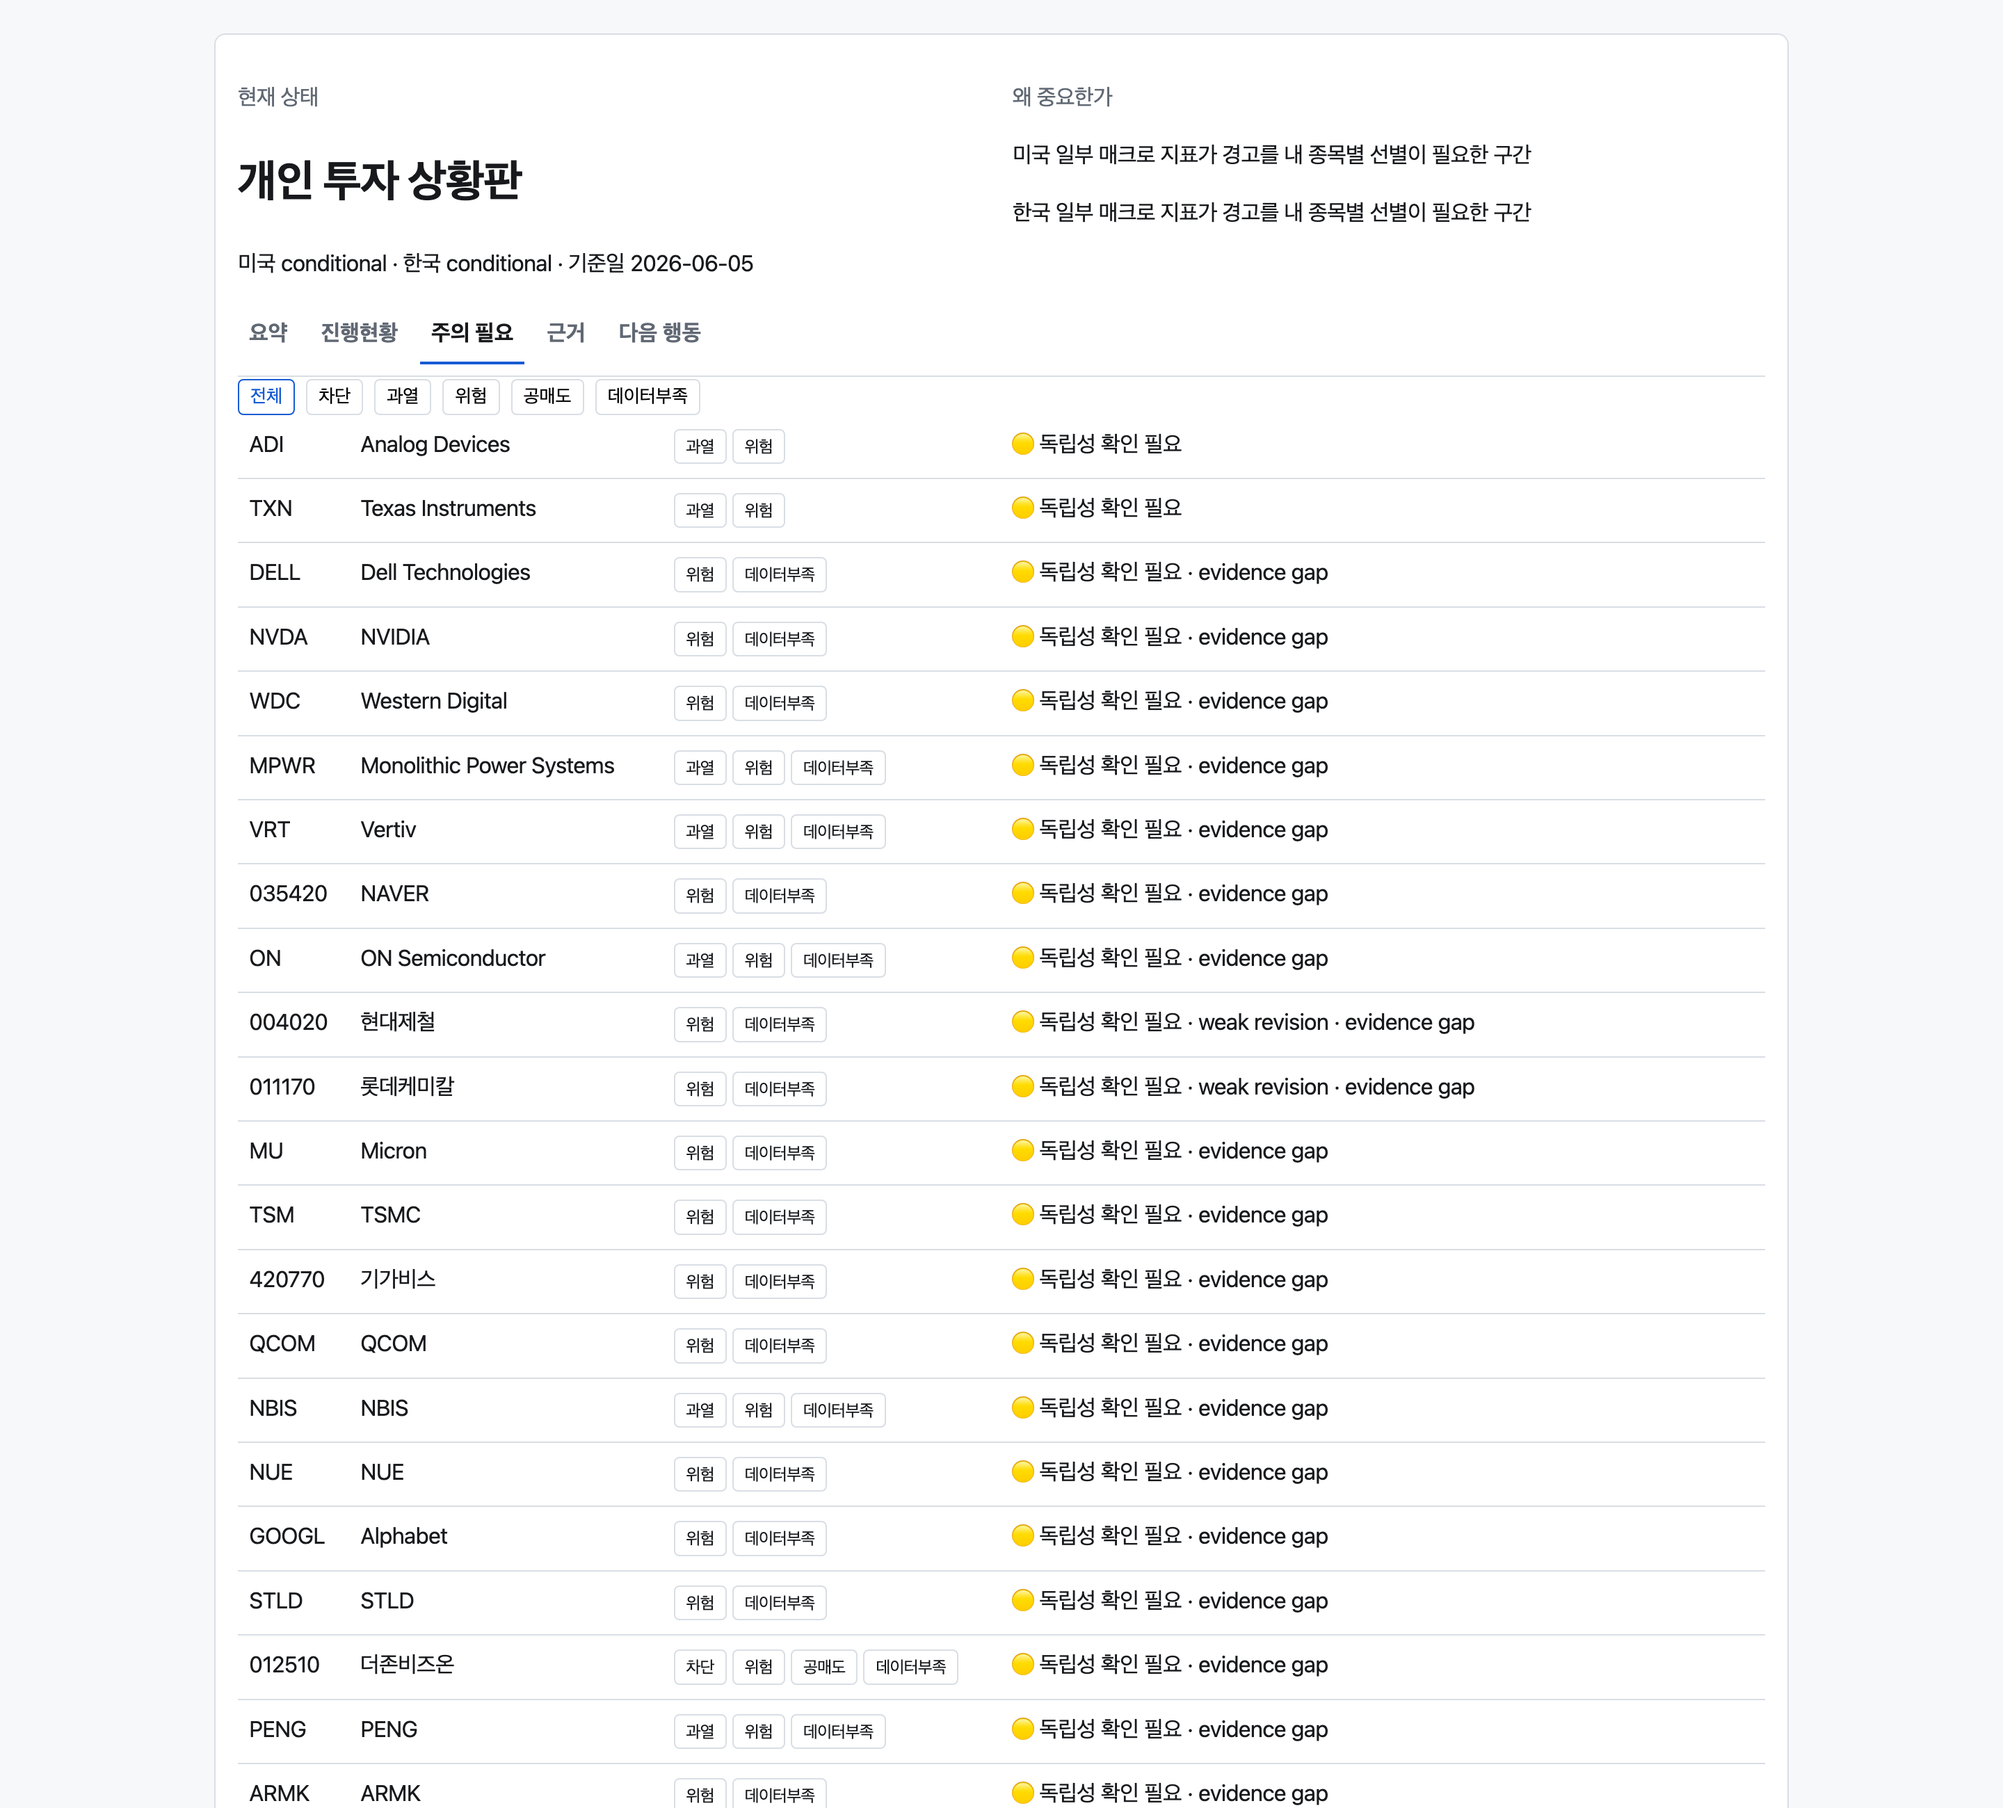
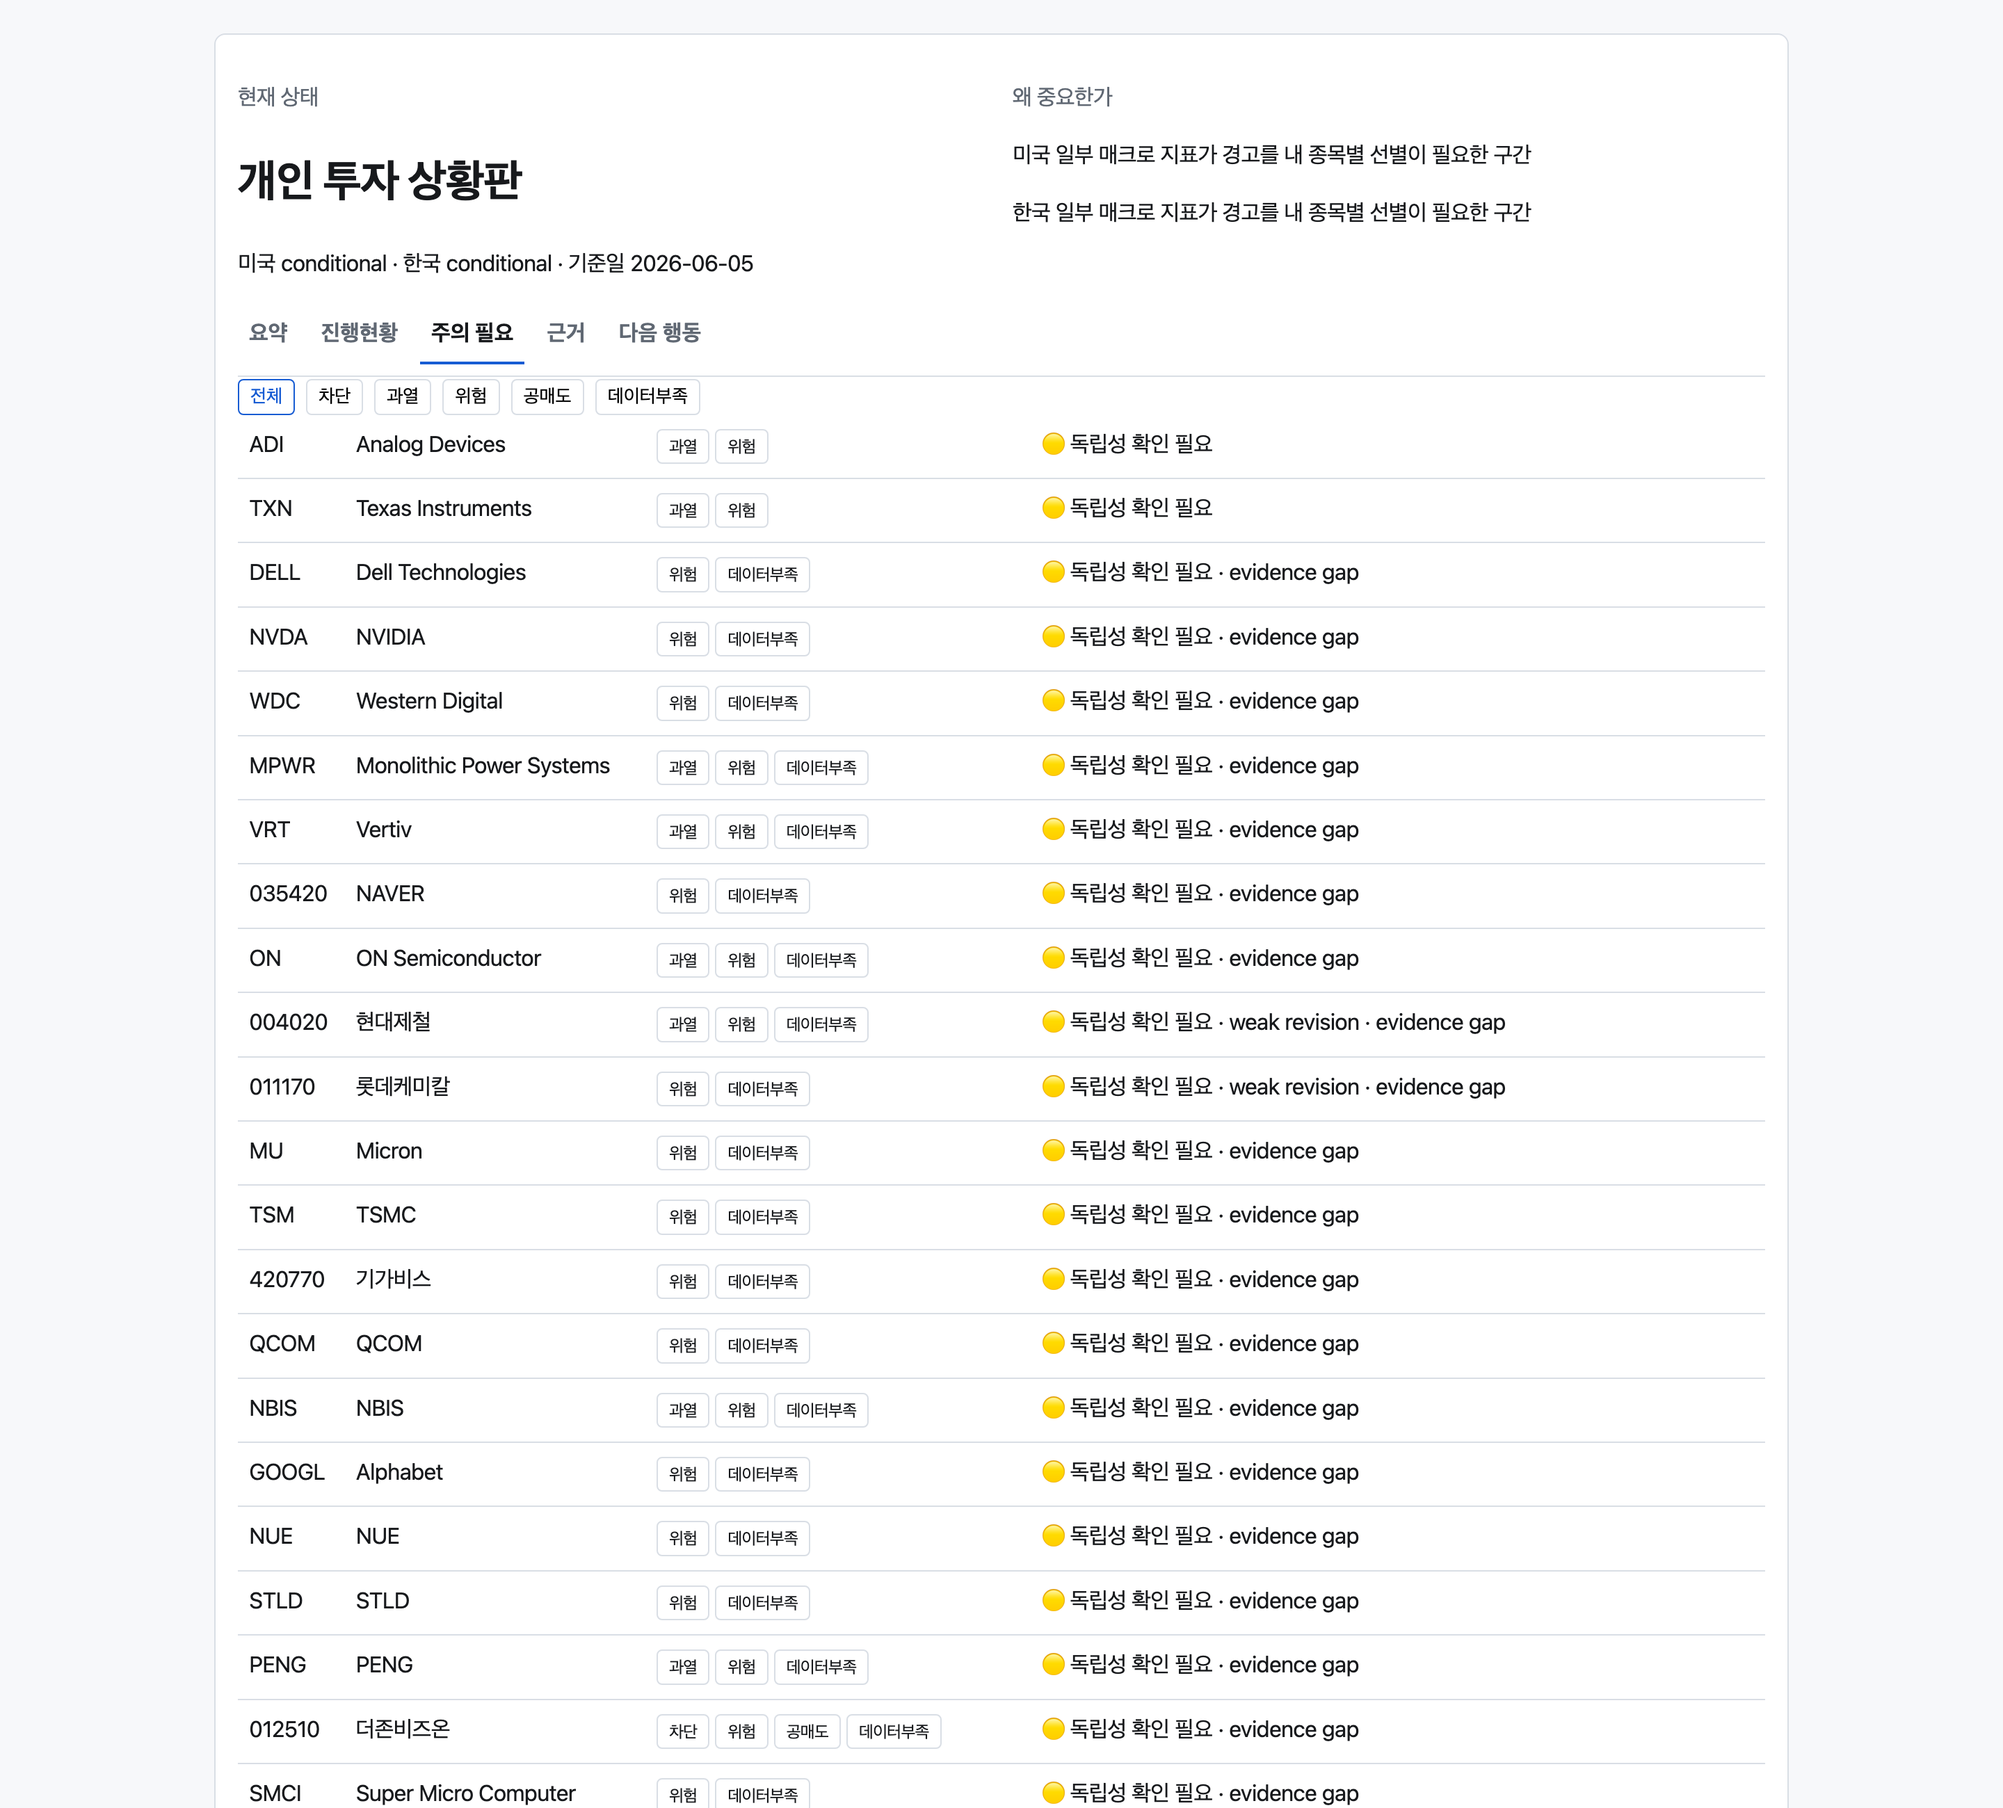
fix(cockpit): 진행현황 상태 라벨 정상/차단 + fresh snapshot 반영
- CandidateTable·snapshotExport 비차단 라벨 'BLOCKED 확인'→'정상', 차단→'차단'
- snapshotExport 정렬에 차단 강등 + independence_status 기준 일치(React isBlocked와 동일)
- snapshot.ts axis_changes 스키마를 canonical 객체({dimension,from,to})로 확장(레거시 문자열 호환) — fresh 데이터 전이 파싱
- 5탭 스크린샷 + 히어로 fresh 데이터(174종목, valuation_expectations 174 채움)로 재촬영

diff --git a/web/src/export/snapshotExport.ts b/web/src/export/snapshotExport.ts
@@ -114,11 +114,19 @@ function summaryPanel(snapshot: DashboardSnapshot) {
 }
 
 function progressPanel(snapshot: DashboardSnapshot) {
+  // React CandidateTable의 isBlocked와 동일 기준(status 또는 independence_status에 BLOCK) — 라벨·정렬 일치.
+  const isBlocked = (c: DashboardSnapshot["candidates"][number]) =>
+    c.status.toUpperCase().includes("BLOCK") || (c.independence_status ?? "").toUpperCase().includes("BLOCK");
   const rows = snapshot.candidates
     .slice()
-    .sort((a, b) => (b.score ?? -1) - (a.score ?? -1))
+    .sort((a, b) => {
+      const ab = isBlocked(a) ? 1 : 0;
+      const bb = isBlocked(b) ? 1 : 0;
+      if (ab !== bb) return ab - bb; // 차단 종목은 맨 뒤로 강등
+      return (b.score ?? -1) - (a.score ?? -1);
+    })
     .slice(0, 50)
-    .map((candidate) => `<tr data-toggle="#detail-${escapeHtml(candidate.ticker)}"><td>${escapeHtml(candidate.ticker)}<br><span class="muted">${escapeHtml(candidate.company)}</span></td><td>${escapeHtml(candidate.score ?? "-")}</td><td>${escapeHtml(candidate.pe ?? "-")}</td><td>${escapeHtml(candidate.strongest_lens || candidate.linked_lenses[0]?.name || "-")}</td><td>${candidate.status.toUpperCase().includes("BLOCK") ? "BLOCKED" : "BLOCKED 확인"}</td></tr><tr id="detail-${escapeHtml(candidate.ticker)}" class="detail-row" hidden><td colspan="5">${escapeHtml(candidate.thesis)}</td></tr>`)
+    .map((candidate) => `<tr data-toggle="#detail-${escapeHtml(candidate.ticker)}"><td>${escapeHtml(candidate.ticker)}<br><span class="muted">${escapeHtml(candidate.company)}</span></td><td>${escapeHtml(candidate.score ?? "-")}</td><td>${escapeHtml(candidate.pe ?? "-")}</td><td>${escapeHtml(candidate.strongest_lens || candidate.linked_lenses[0]?.name || "-")}</td><td>${isBlocked(candidate) ? "차단" : "정상"}</td></tr><tr id="detail-${escapeHtml(candidate.ticker)}" class="detail-row" hidden><td colspan="5">${escapeHtml(candidate.thesis)}</td></tr>`)
     .join("");
   return `<table><thead><tr><th>종목</th><th>매력도</th><th>PER</th><th>렌즈</th><th>상태</th></tr></thead><tbody>${rows}</tbody></table>`;
 }

diff --git a/web/src/data/snapshot.ts b/web/src/data/snapshot.ts
@@ -29,7 +29,16 @@ export const transitionSchema = z.object({
   from_regime: z.string().optional(),
   streak: z.number().int().nullable().optional(),
   whipsaw: z.boolean().default(false),
-  axis_changes: z.array(z.string()).default([]),
+  // canonical: Python detect_transition이 축별 {dimension, from, to} 객체로 생성.
+  // 레거시 문자열 배열도 허용(구 스냅샷/픽스처 호환).
+  axis_changes: z
+    .array(
+      z.union([
+        z.string(),
+        z.object({ dimension: z.string(), from: z.string(), to: z.string() }),
+      ]),
+    )
+    .default([]),
 });
 
 export const dualRegimeSchema = z.object({

diff --git a/web/src/components/CandidateTable.tsx b/web/src/components/CandidateTable.tsx
@@ -65,7 +65,7 @@ export function CandidateTable({ candidates }: CandidateTableProps) {
         header: "상태",
         accessorFn: (row) => (isBlocked(row) ? 1 : 0),  // 0=비차단 먼저, 1=차단 맨뒤
         cell: ({ row }) =>
-          isBlocked(row.original) ? <Badge tone="risk">BLOCKED</Badge> : <span className="text-xs text-textMuted">BLOCKED 확인</span>,
+          isBlocked(row.original) ? <Badge tone="risk">차단</Badge> : <span className="text-xs text-textMuted">정상</span>,
       },
       {
         id: "sparkline",

diff --git a/web/tests/progress.test.tsx b/web/tests/progress.test.tsx
@@ -11,7 +11,7 @@ describe("progress tab", () => {
     expect(screen.getByRole("columnheader", { name: "매력도" })).toBeInTheDocument();
     expect(screen.getByRole("columnheader", { name: "PER" })).toBeInTheDocument();
     expect(screen.getByRole("columnheader", { name: "렌즈" })).toBeInTheDocument();
-    expect(screen.getByText("BLOCKED 확인")).toBeInTheDocument();
+    expect(screen.getByText("정상")).toBeInTheDocument();
     expect(screen.queryByLabelText("ADI 가격 흐름")).not.toBeInTheDocument();
   });
 });
